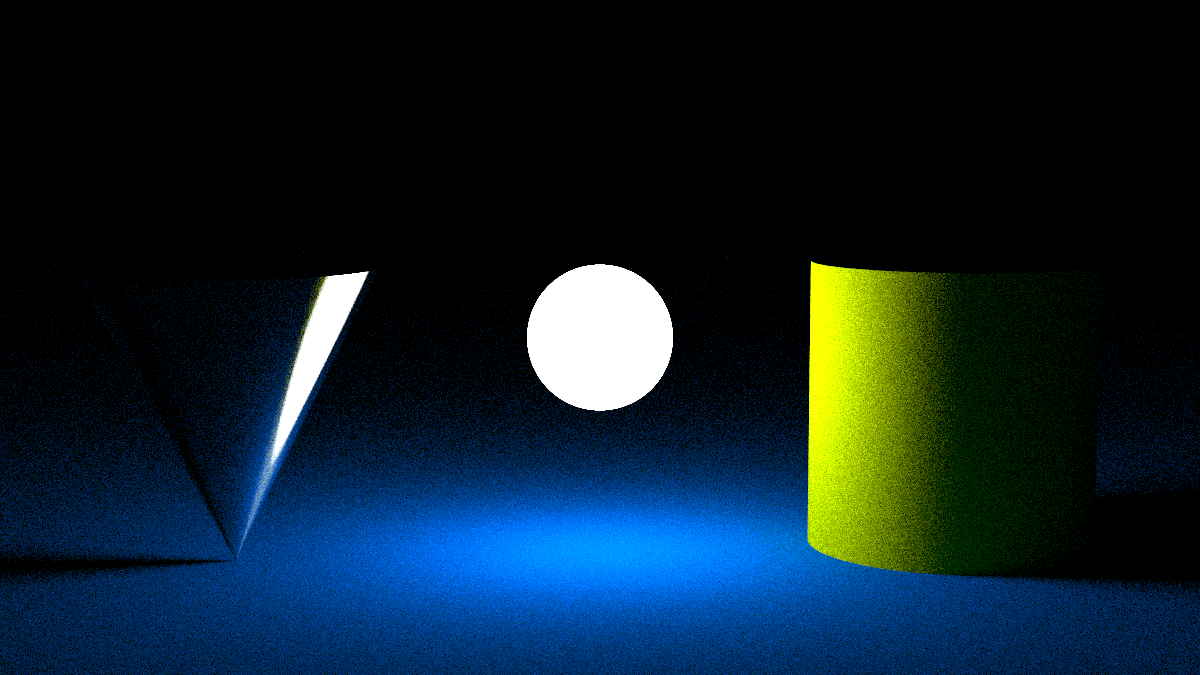
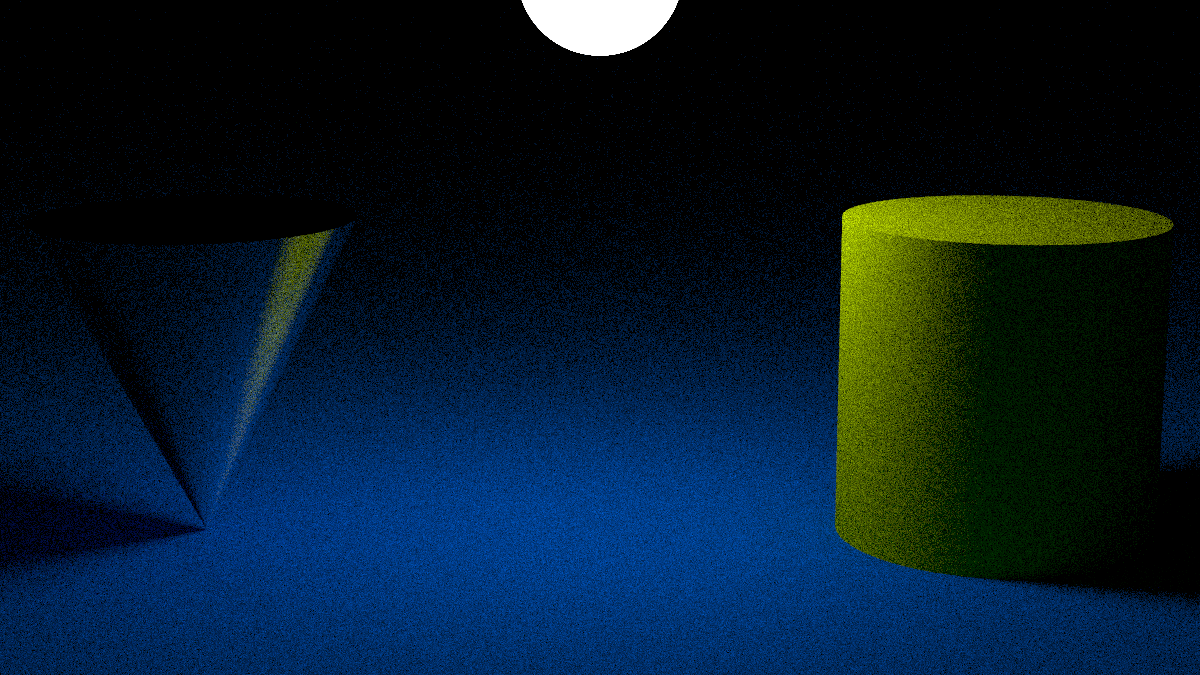
fix: add `caps` to `cylinder` and `cone`

diff --git a/sources/shapes/Cylinder.cpp b/sources/shapes/Cylinder.cpp
@@ -40,9 +40,38 @@ Raytracer::Shapes::Cylinder::Cylinder(const Utils::Point3 &center,
 bool Raytracer::Shapes::Cylinder::hit(const Core::Ray &ray,
     Utils::Interval interval, Core::Payload &payload) const
 {
-    // TODO: Implement cylinder caps intersection
     Utils::Vec3 direction = ray.direction();
     Utils::Point3 origin = ray.origin();
+
+    double t_cap = (_center.y() - origin.y()) / direction.y();
+    if (interval.surrounds(t_cap)) {
+        Utils::Point3 hit_point = ray.at(t_cap);
+        double dist_squared =
+            (hit_point.x() - _center.x()) * (hit_point.x() - _center.x())
+            + (hit_point.z() - _center.z()) * (hit_point.z() - _center.z());
+        if (dist_squared <= _radius * _radius) {
+            payload.t(t_cap);
+            payload.point(hit_point);
+            payload.setFaceNormal(ray, Utils::Vec3(0, 1, 0));
+            payload.material(_material);
+            return true;
+        }
+    }
+
+    t_cap = (_center.y() + _height - origin.y()) / direction.y();
+    if (interval.surrounds(t_cap)) {
+        Utils::Point3 hit_point = ray.at(t_cap);
+        double dist_squared =
+            (hit_point.x() - _center.x()) * (hit_point.x() - _center.x())
+            + (hit_point.z() - _center.z()) * (hit_point.z() - _center.z());
+        if (dist_squared <= _radius * _radius) {
+            payload.t(t_cap);
+            payload.point(hit_point);
+            payload.setFaceNormal(ray, Utils::Vec3(0, -1, 0));
+            payload.material(_material);
+            return true;
+        }
+    }
 
     double a = std::pow(direction.x(), 2) + std::pow(direction.z(), 2);
     double h = 2

diff --git a/sources/shapes/Cone.cpp b/sources/shapes/Cone.cpp
@@ -52,6 +52,22 @@ bool Raytracer::Shapes::Cone::hit(const Core::Ray &ray,
         - oc.y() * oc.y() * _radius * _radius / (_height * _height);
     double discriminant = b * b - 4 * a * c;
 
+    double top_cap = _center.y() + _height;
+    double t = ((top_cap - ray.origin().y()) / ray.direction().y());
+    if (interval.contains(t)) {
+        double x = ray.origin().x() + t * ray.direction().x();
+        double z = ray.origin().z() + t * ray.direction().z();
+        double distance_squared = (x - _center.x()) * (x - _center.x())
+            + (z - _center.z()) * (z - _center.z());
+        if (distance_squared <= _radius * _radius) {
+            payload.t(t);
+            payload.point(ray.at(payload.t()));
+            payload.setFaceNormal(ray, Utils::Vec3(0, 1, 0));
+            payload.material(_material);
+            return true;
+        }
+    }
+
     if (discriminant < 0) {
         return false;
     }
